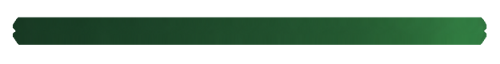
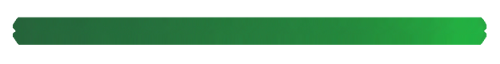
Changes around reconversion and varius changes

diff --git a/src/main/java/fr/varyon/vrpg/ui/RpgMainUI.java b/src/main/java/fr/varyon/vrpg/ui/RpgMainUI.java
@@ -166,6 +166,7 @@ public final class RpgMainUI extends InteractiveCustomUIPage<RpgMainUI.Data> {
     private int selectedNode = 2;
     private int hoveredNode = -1;
     private final int[] skillRanks = new int[TREE_NODES.length];
+    private String reconvertSourceId = null;
 
     public RpgMainUI(@Nonnull PlayerRef playerRef) {
         super(playerRef, CustomPageLifetime.CanDismiss, Data.CODEC);
@@ -282,6 +283,10 @@ public final class RpgMainUI extends InteractiveCustomUIPage<RpgMainUI.Data> {
             }
         }
 
+        boolean selectMode = reconvertSourceId != null
+            && Profession.fromId(reconvertSourceId) != null;
+        if (!selectMode) reconvertSourceId = null;
+
         for (int i = 0; i < PROFESSION_CATALOG_SLOTS; i++) {
             String id = "#ProfessionCatalogCard" + i;
             Profession p = CATALOG_ORDER[i];
@@ -292,9 +297,20 @@ public final class RpgMainUI extends InteractiveCustomUIPage<RpgMainUI.Data> {
             uiBuilder.set(id + "Level.TextSpans", Message.raw(("Niveau " + level).toUpperCase(Locale.FRENCH)));
             long catXpInLevel = catProg == null ? 0L : catProg.getXpInLevel();
             long catXpToNext = catProg == null ? 0L : catProg.getXpToNextLevel();
-            applyGaugeBar(uiBuilder,
-                id + "ProgBarFill",
-                catXpInLevel, catXpToNext);
+            applyGaugeBar(uiBuilder, id + "ProgBarFill", catXpInLevel, catXpToNext);
+
+            boolean selectable = selectMode
+                && !p.isSpecialized()
+                && p != activeSlots[0]
+                && p != activeSlots[1];
+            uiBuilder.set(id + "Select.Visible", selectable);
+            if (selectable) {
+                eventBuilder.addEventBinding(CustomUIEventBindingType.Activating,
+                    id + "Select",
+                    EventData.of("Action", "professionReconvertSelect")
+                        .append("ProfessionId", p.getId()),
+                    false);
+            }
 
             if (p.isSpecialized()) {
                 Profession parent = p.getPrereq();
@@ -730,32 +746,30 @@ public final class RpgMainUI extends InteractiveCustomUIPage<RpgMainUI.Data> {
             Arrays.fill(skillRanks, 0);
             rebuild();
         } else if ("professionReconvert".equals(data.action) && data.professionId != null) {
+            reconvertSourceId = data.professionId.equals(reconvertSourceId)
+                ? null : data.professionId;
+            rebuild();
+        } else if ("professionReconvertSelect".equals(data.action) && data.professionId != null
+                   && reconvertSourceId != null) {
             ProfessionManager mgr = VaryonRpgPlugin.getInstance().getProfessionManager();
             if (mgr != null) {
-                Profession active = Profession.fromId(data.professionId);
-                if (active != null) {
+                Profession source = Profession.fromId(reconvertSourceId);
+                Profession target = Profession.fromId(data.professionId);
+                LOG.info("[RPG-Reconvert] select source=" + source + " target=" + target);
+                if (source != null && target != null) {
                     PlayerAccount acc = mgr.getAccount(playerRef.getUuid());
                     if (acc != null) {
-                        int slot = active == acc.getActiveSlot1() ? 1 : 0;
-                        Profession replacement = chooseReconvertTarget(acc, active);
-                        if (replacement != null) {
-                            mgr.setActiveSlot(playerRef.getUuid(), slot, replacement);
-                        }
+                        int slot = source == acc.getActiveSlot1() ? 1 : 0;
+                        ProfessionManager.ReconvertResult result =
+                            mgr.setActiveSlot(playerRef.getUuid(), slot, target);
+                        LOG.info("[RPG-Reconvert] setActiveSlot slot=" + slot + " result=" + result
+                            + " lastReconvertAt=" + acc.getLastReconvertAt());
                     }
                 }
             }
+            reconvertSourceId = null;
             rebuild();
         }
-    }
-
-    private static Profession chooseReconvertTarget(@Nonnull PlayerAccount acc, @Nonnull Profession current) {
-        for (Profession p : Profession.bases()) {
-            if (p == current) continue;
-            if (p == acc.getActiveSlot0()) continue;
-            if (p == acc.getActiveSlot1()) continue;
-            return p;
-        }
-        return null;
     }
 
     public static final class Data {

diff --git a/src/main/java/fr/varyon/vrpg/rpg/ProfessionManager.java b/src/main/java/fr/varyon/vrpg/rpg/ProfessionManager.java
@@ -186,10 +186,6 @@ public final class ProfessionManager {
             if (newProfession == current) return ReconvertResult.NO_CHANGE;
 
             long now = System.currentTimeMillis();
-            long elapsed = now - acc.getLastReconvertAt();
-            if (acc.getLastReconvertAt() > 0L && elapsed < RECONVERT_COOLDOWN_MS) {
-                return ReconvertResult.COOLDOWN_ACTIVE;
-            }
 
             if (slotIndex == 0) acc.setActiveSlot0(newProfession);
             else                acc.setActiveSlot1(newProfession);
